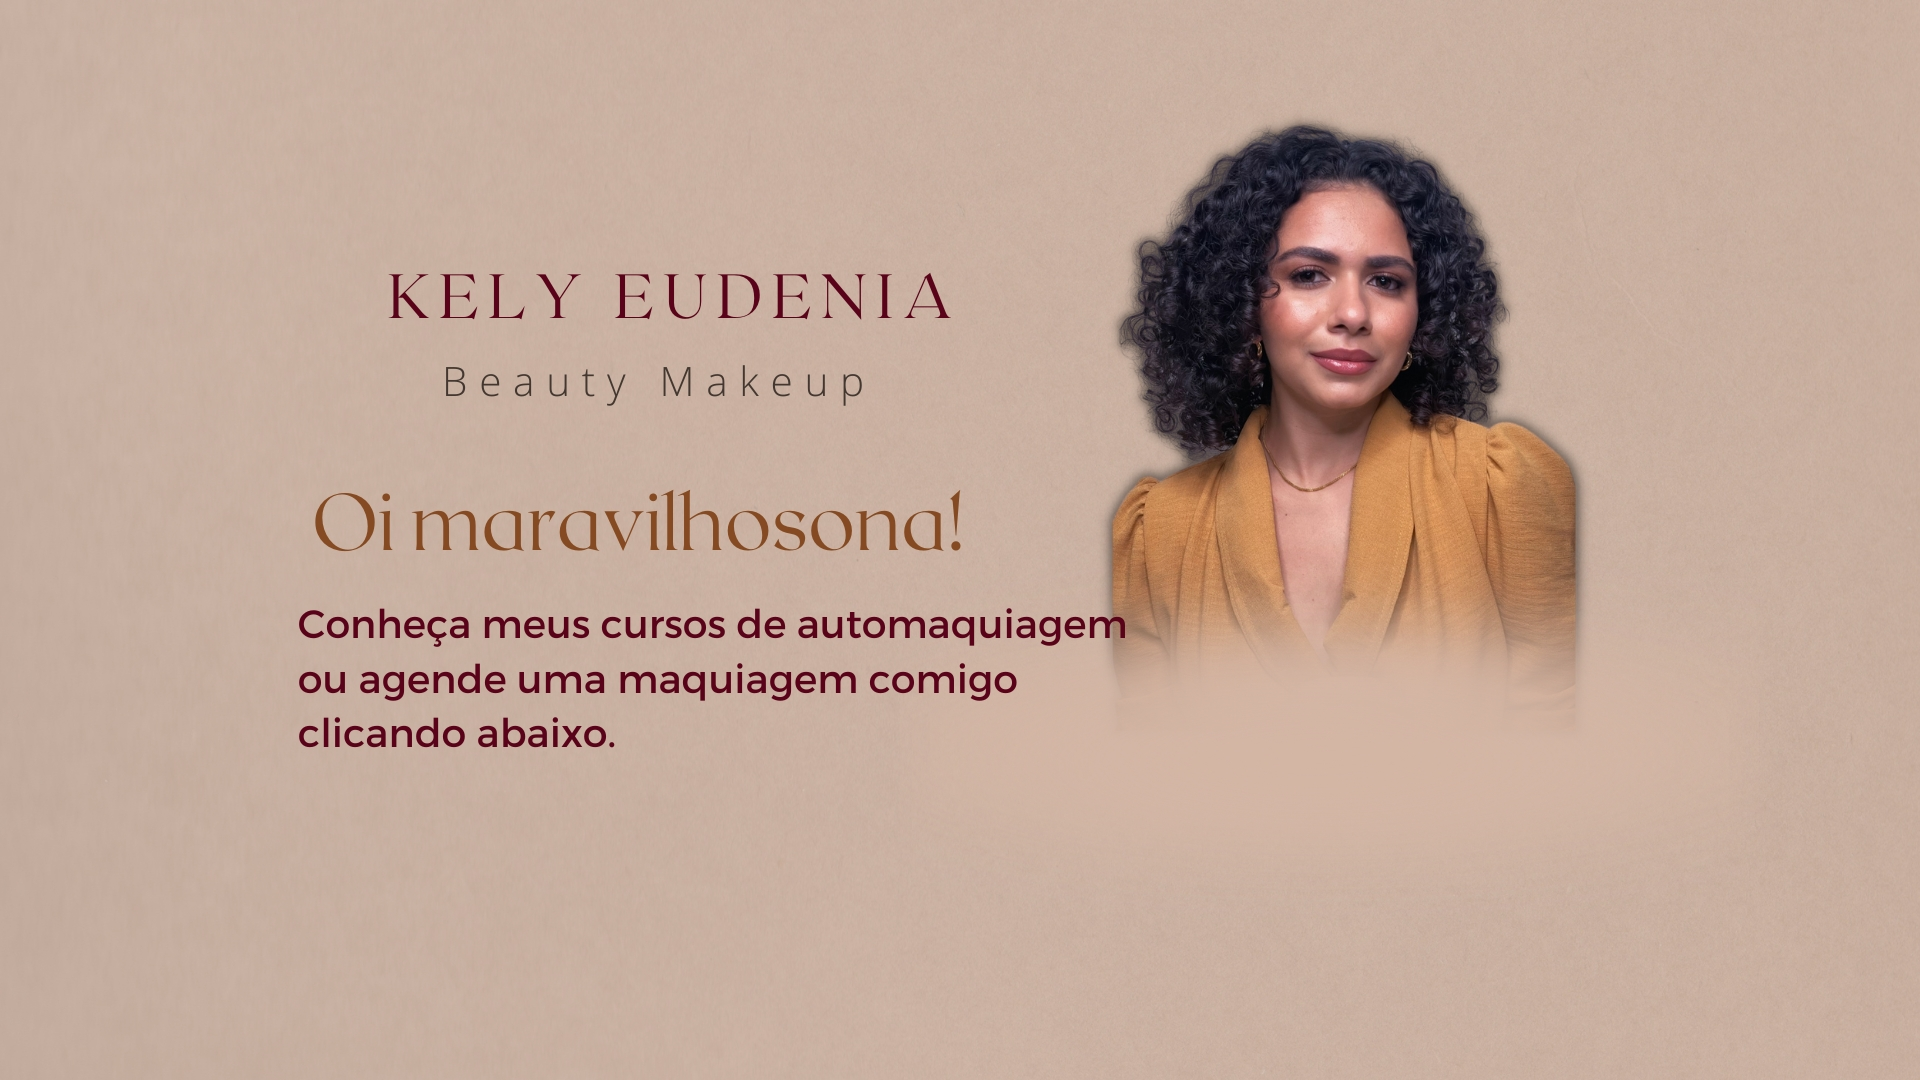
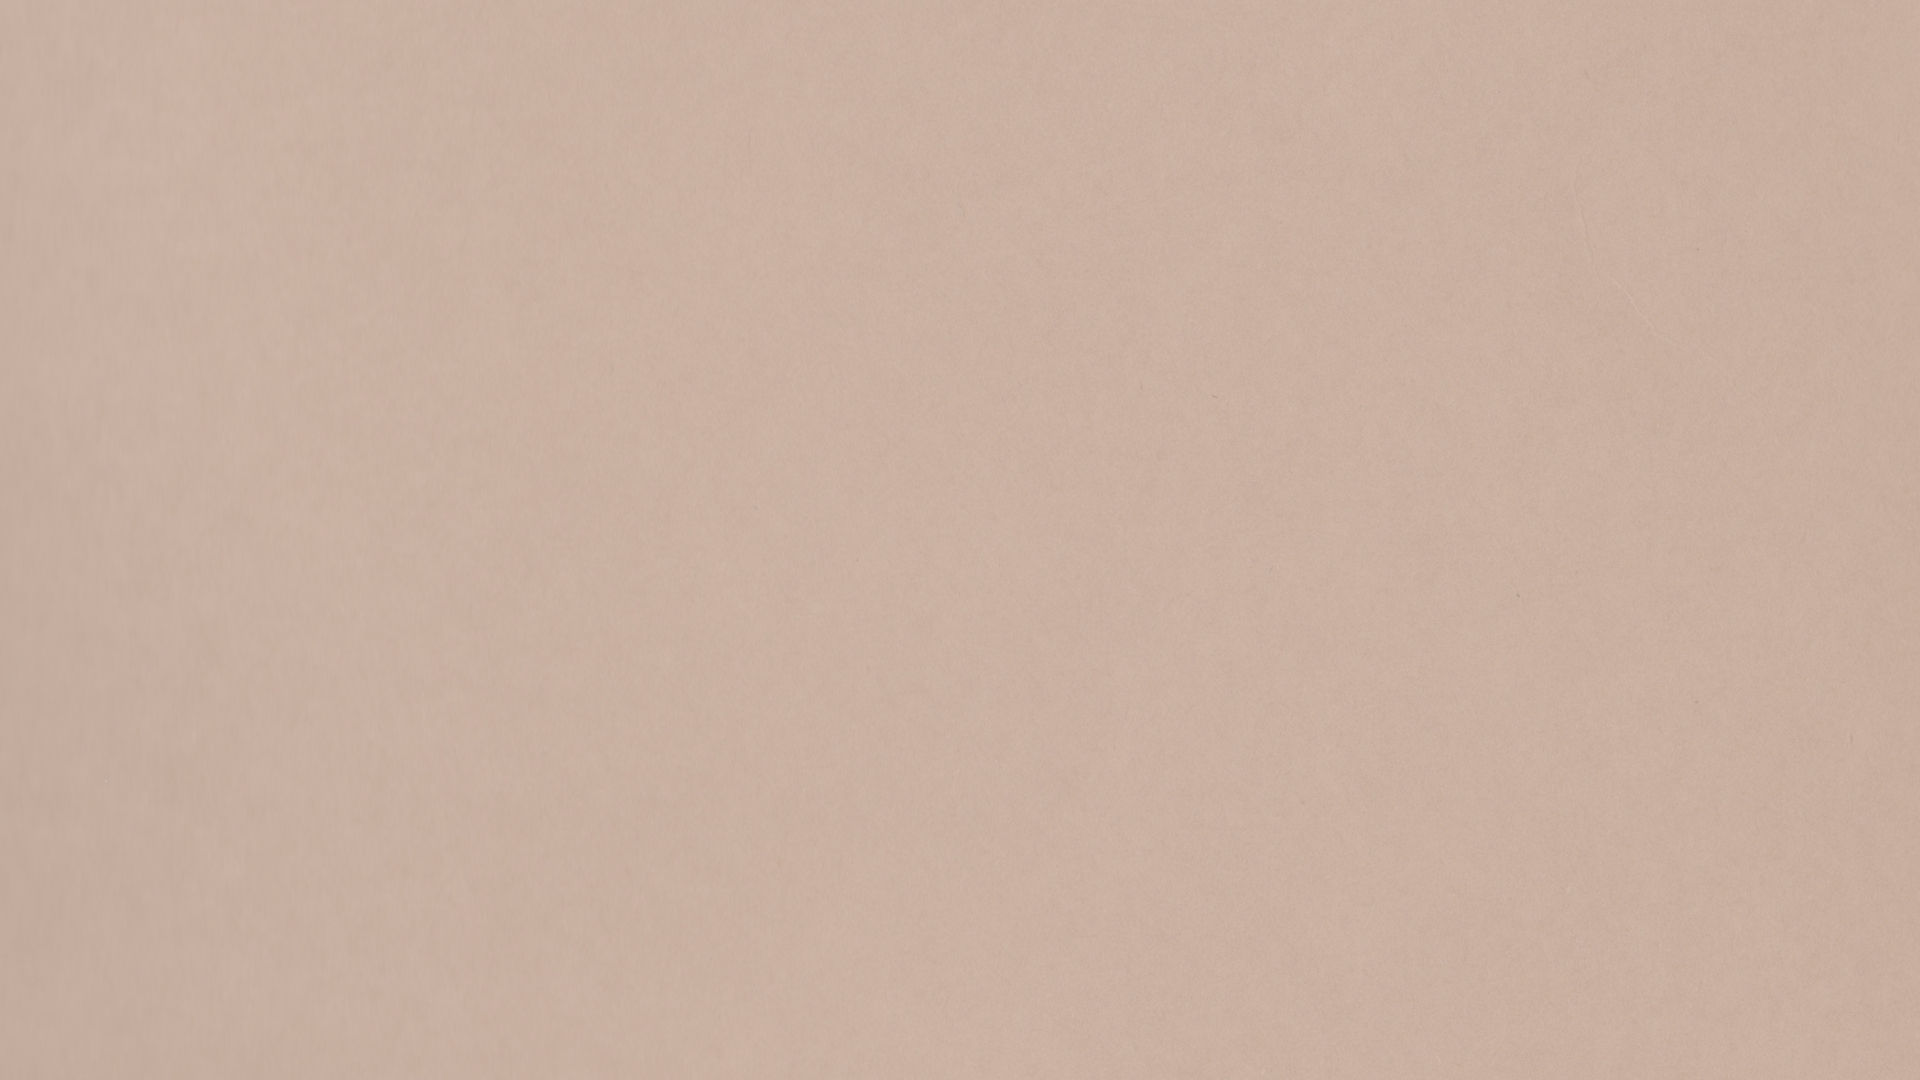
:zap:

diff --git a/_layouts/default.html b/_layouts/default.html
@@ -17,17 +17,16 @@ layout: compress
             </div>
             <div class="bg-black"></div>
             <span class="text-center z-30">
-            <!--    <img id="image"
+                <img id="image"
                     class="logo-center"
-                    src="https://images.weserv.nl/?url={{site.Image_URL}}&h=500&w=400&dpr=1&fit=cover"
+                    src="https://images.weserv.nl/?url={{site.Image_URL}}&h=1920&w=1080&dpr=1&fit=cover"
                     onError="this.onerror=null;this.src='https://github.com/{{site.github_username}}.png';"
                     alt="{{site.name}}">
                 <br>
-                <h1 class="text-5xl text-center font-semibold mt-3 mx-auto"><img class="logo-center" src="{{site.logo}}" alt="{{site.name}}"></h1>
-                <hr class="my-2 opacity-25">
-                <p class="text-[#864A22] text-2xl text-center decoration-solid " style="color: #864A22;">Oi maravilhosona!</p>
-                <p class="text-[#590219] decoration-solid break-words inline-flex font-normal mt-1.5 mx-auto text-center opacity-90 2xl:w-5/12 xl:w-5/12 md:w-6/12 sm:w-full justify-center" style="color: #864A22;">{{site.tagline}}</p>
-                -->
+                <!-- <h1 class="text-5xl text-center font-semibold mt-3 mx-auto"><img class="logo-center" src="{{site.logo}}" alt="{{site.name}}"></h1> -->
+               <!--  <hr class="my-2 opacity-25"> -->
+               <!--  <p class="text-[#864A22] text-2xl text-center decoration-solid " style="color: #864A22;">Oi maravilhosona!</p> -->
+               <!--  <p class="text-[#590219] decoration-solid break-words inline-flex font-normal mt-1.5 mx-auto text-center opacity-90 2xl:w-5/12 xl:w-5/12 md:w-6/12 sm:w-full justify-center" style="color: #864A22;">{{site.tagline}}</p> -->
                 <div class="grid 2xl:grid-cols-5 xl:grid-cols-4 lg:grid-cols-4 md:grid-cols-3 sm:grid-cols-1 my-7">
                     {% unless site.links == "" %}
                     {% include links.html %}
